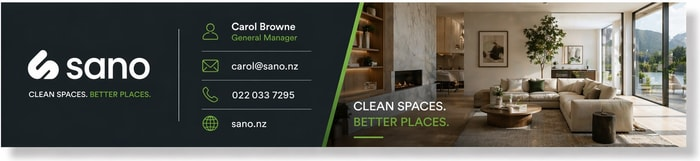
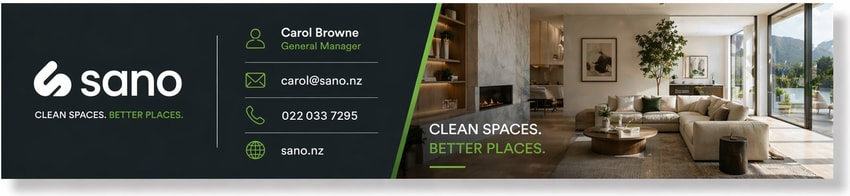
fix(email): resize signature files to 850/1000px and point pages at them

diff --git a/src/__tests__/lib/email-signature-banner.test.ts b/src/__tests__/lib/email-signature-banner.test.ts
@@ -32,7 +32,7 @@ describe('copy-paste Outlook signature pages are email-safe', () => {
 })
 
 // Classic Outlook ignores CSS sizing on pasted signature images and shows the
-// file at its native pixel size, so the signature images must BE 700px wide.
+// file at its native pixel size, so the signature images must BE their display width.
 describe('signature banner files are native display size', () => {
   const jpegWidth = (p: string) => {
     const b = readFileSync(join(process.cwd(), p))
@@ -45,9 +45,13 @@ describe('signature banner files are native display size', () => {
     }
     return -1
   }
-  it.each(['carol', 'michael'])('%s signature image is 700px wide', (n) => {
-    expect(jpegWidth(`public/email/email-signature-${n}-700.jpg`)).toBe(700)
-    const page = n === 'carol' ? 'src/app/email-signature/page.tsx' : 'src/app/email-signature-michael/page.tsx'
-    expect(read(page)).toContain(`/email/email-signature-${n}-700.jpg`)
+  it.each([
+    ['carol', 'src/app/email-signature/page.tsx', 850],
+    ['michael', 'src/app/email-signature-michael/page.tsx', 1000],
+  ] as const)('%s signature image file matches its display width', (n, page, w) => {
+    expect(jpegWidth(`public/email/email-signature-${n}.jpg`)).toBe(w)
+    const src = read(page)
+    expect(src).toContain(`/email/email-signature-${n}.jpg`)
+    expect(src).toContain(`width="${w}"`)
   })
 })

diff --git a/src/app/email-signature/page.tsx b/src/app/email-signature/page.tsx
@@ -16,14 +16,14 @@ export default function EmailSignature() {
 
         <a href="https://sano.nz" target="_blank" rel="noreferrer" style={{ display: 'block' }}>
           <img
-            src="/email/email-signature-carol-700.jpg"
+            src="/email/email-signature-carol.jpg"
             alt="Sano Email Banner"
-            width="700"
-            height="161"
+            width="850"
+            height="196"
             style={{
               display: 'block',
-              width: '700px',
-              // The file is 700px NATIVE on purpose. Classic Outlook ignores CSS
+              width: '850px',
+              // The file is 850px NATIVE on purpose. Classic Outlook ignores CSS
               // width/max-width and often drops the width attribute on a pasted
               // signature image, so it shows the file at native size (x Windows DPI).
               // Native = display size means it can never blow up. Do not swap back

diff --git a/src/app/email-signature-michael/page.tsx b/src/app/email-signature-michael/page.tsx
@@ -16,14 +16,14 @@ export default function EmailSignatureMichael() {
 
         <a href="https://sano.nz" target="_blank" rel="noreferrer" style={{ display: 'block' }}>
           <img
-  src="/email/email-signature-michael-700.jpg"
+  src="/email/email-signature-michael.jpg"
   alt="Sano Email Banner"
-  width="700"
-  height="151"
+  width="1000"
+  height="216"
   style={{
     display: 'block',
-    width: '700px',
-    // The file is 700px NATIVE on purpose. Classic Outlook ignores CSS
+    width: '1000px',
+    // The file is 1000px NATIVE on purpose. Classic Outlook ignores CSS
     // width/max-width and often drops the width attribute on a pasted
     // signature image, so it shows the file at native size (x Windows DPI).
     // Native = display size means it can never blow up. Do not swap back
